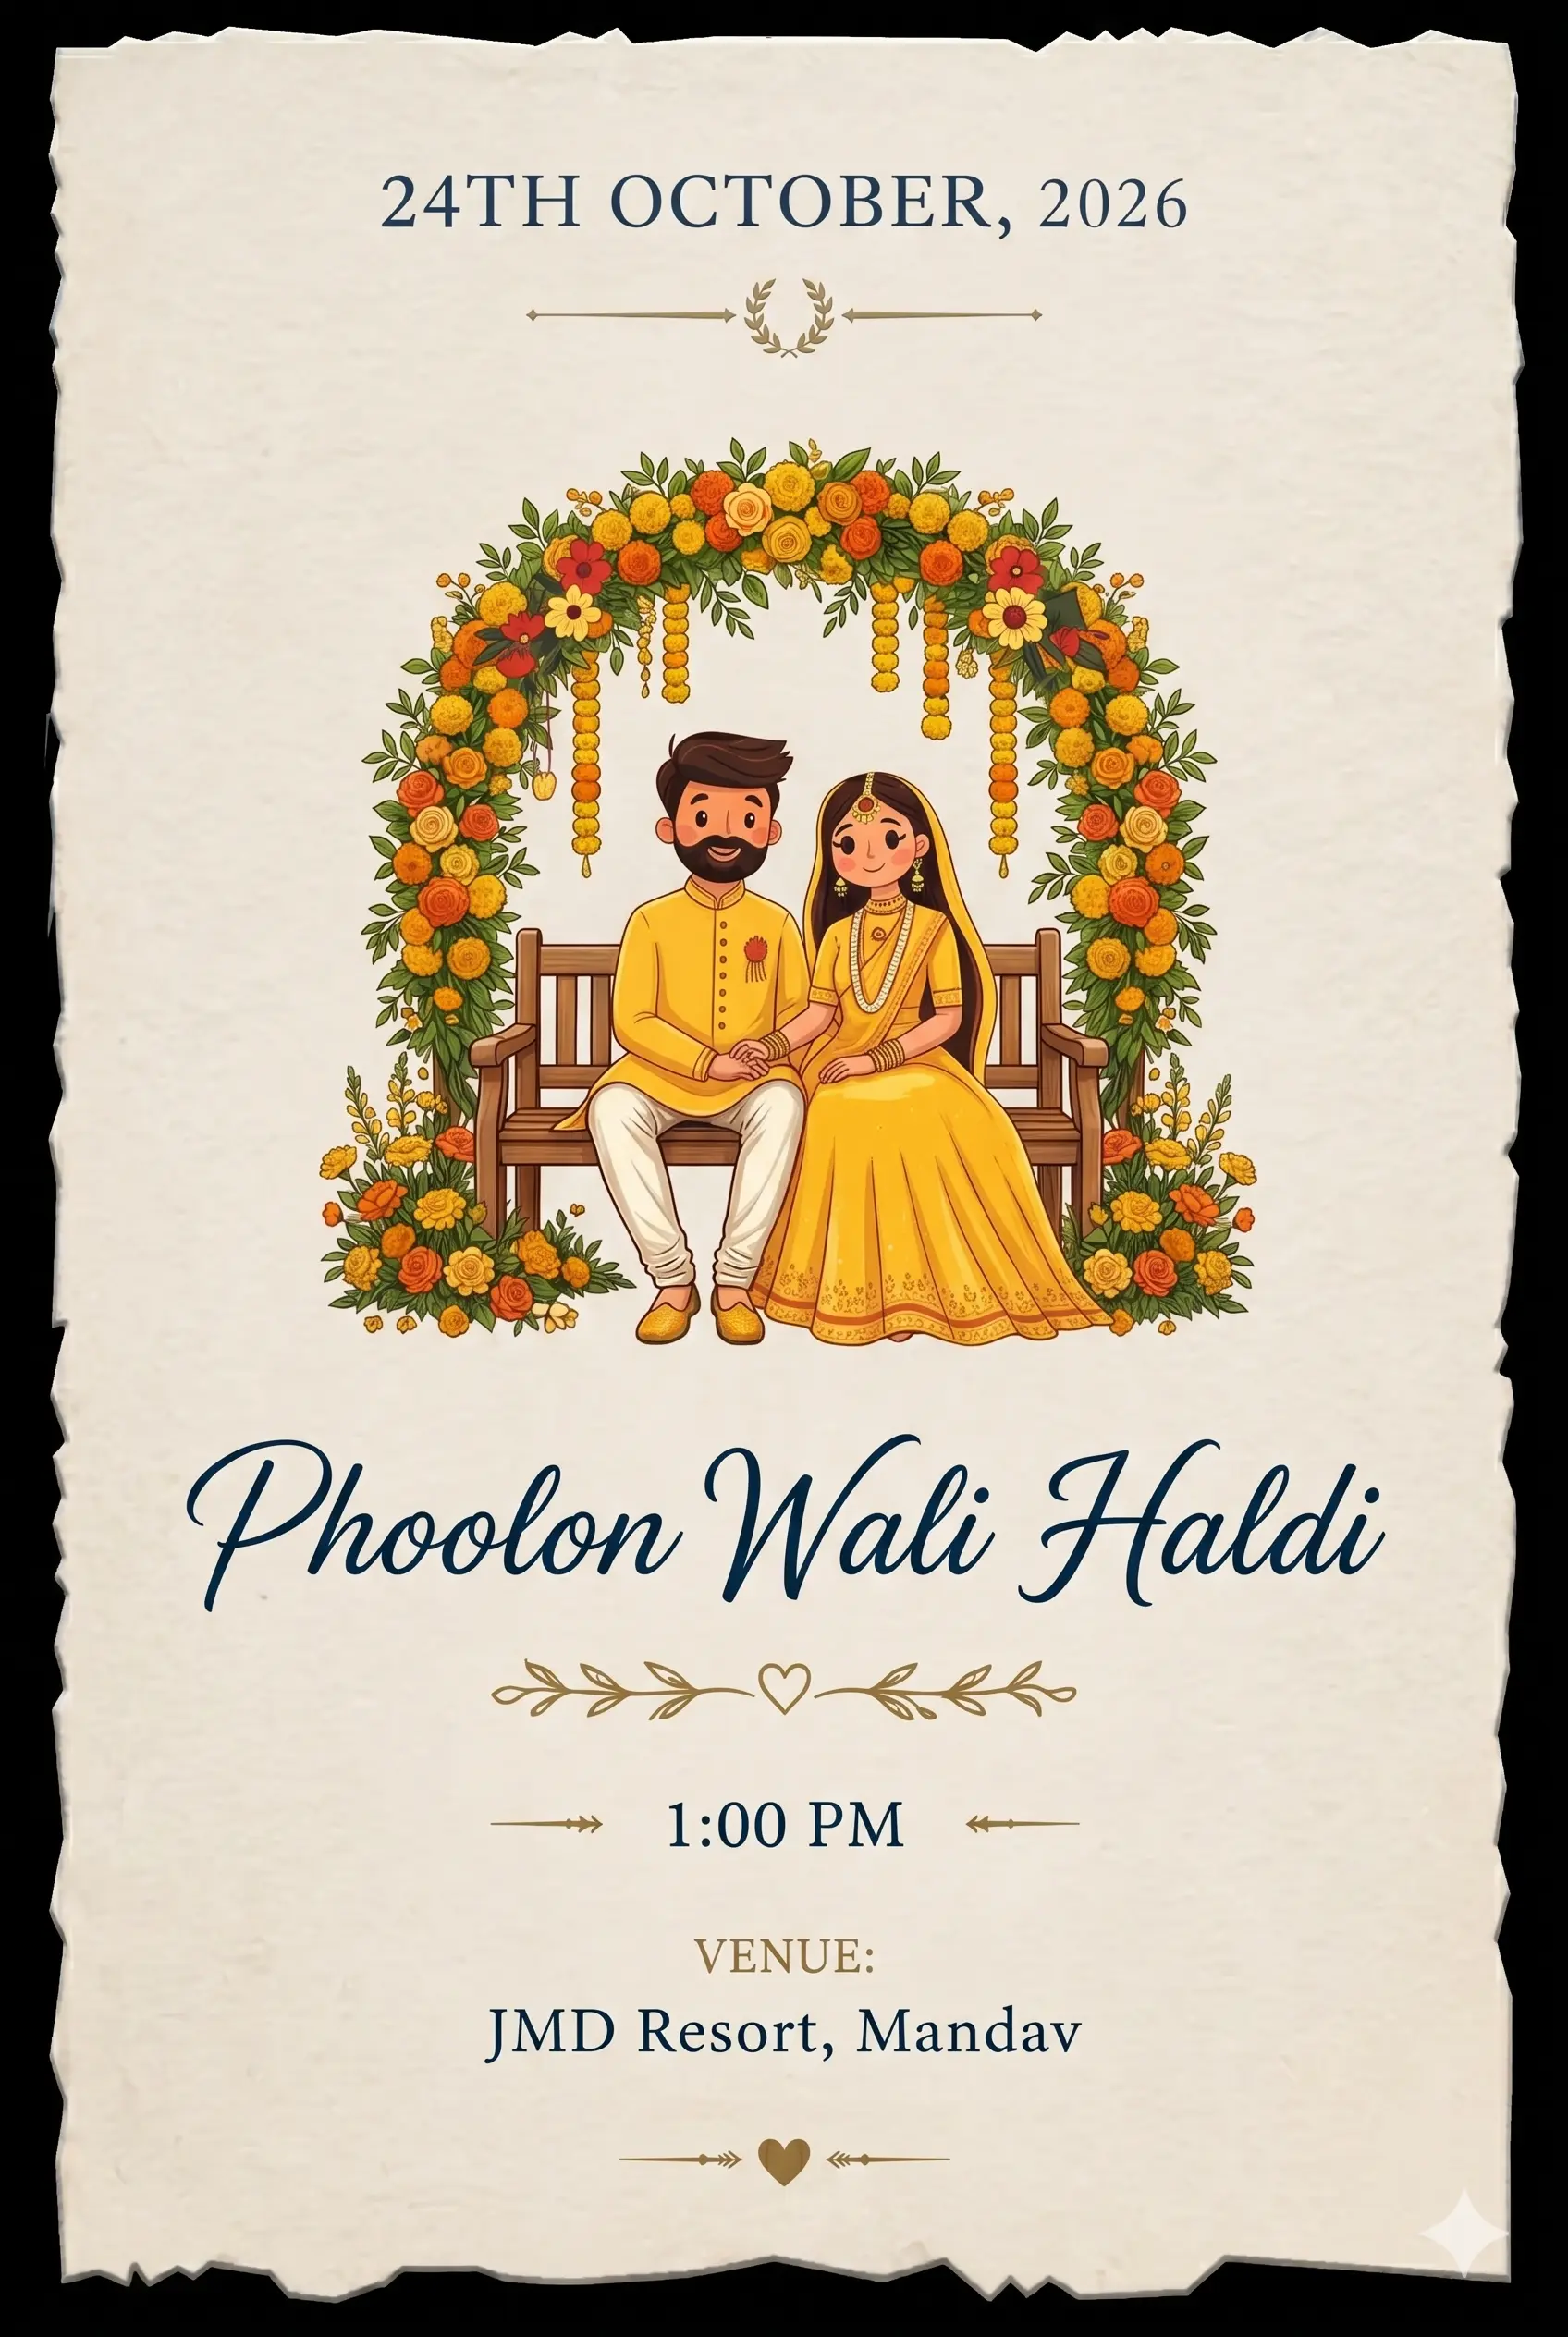
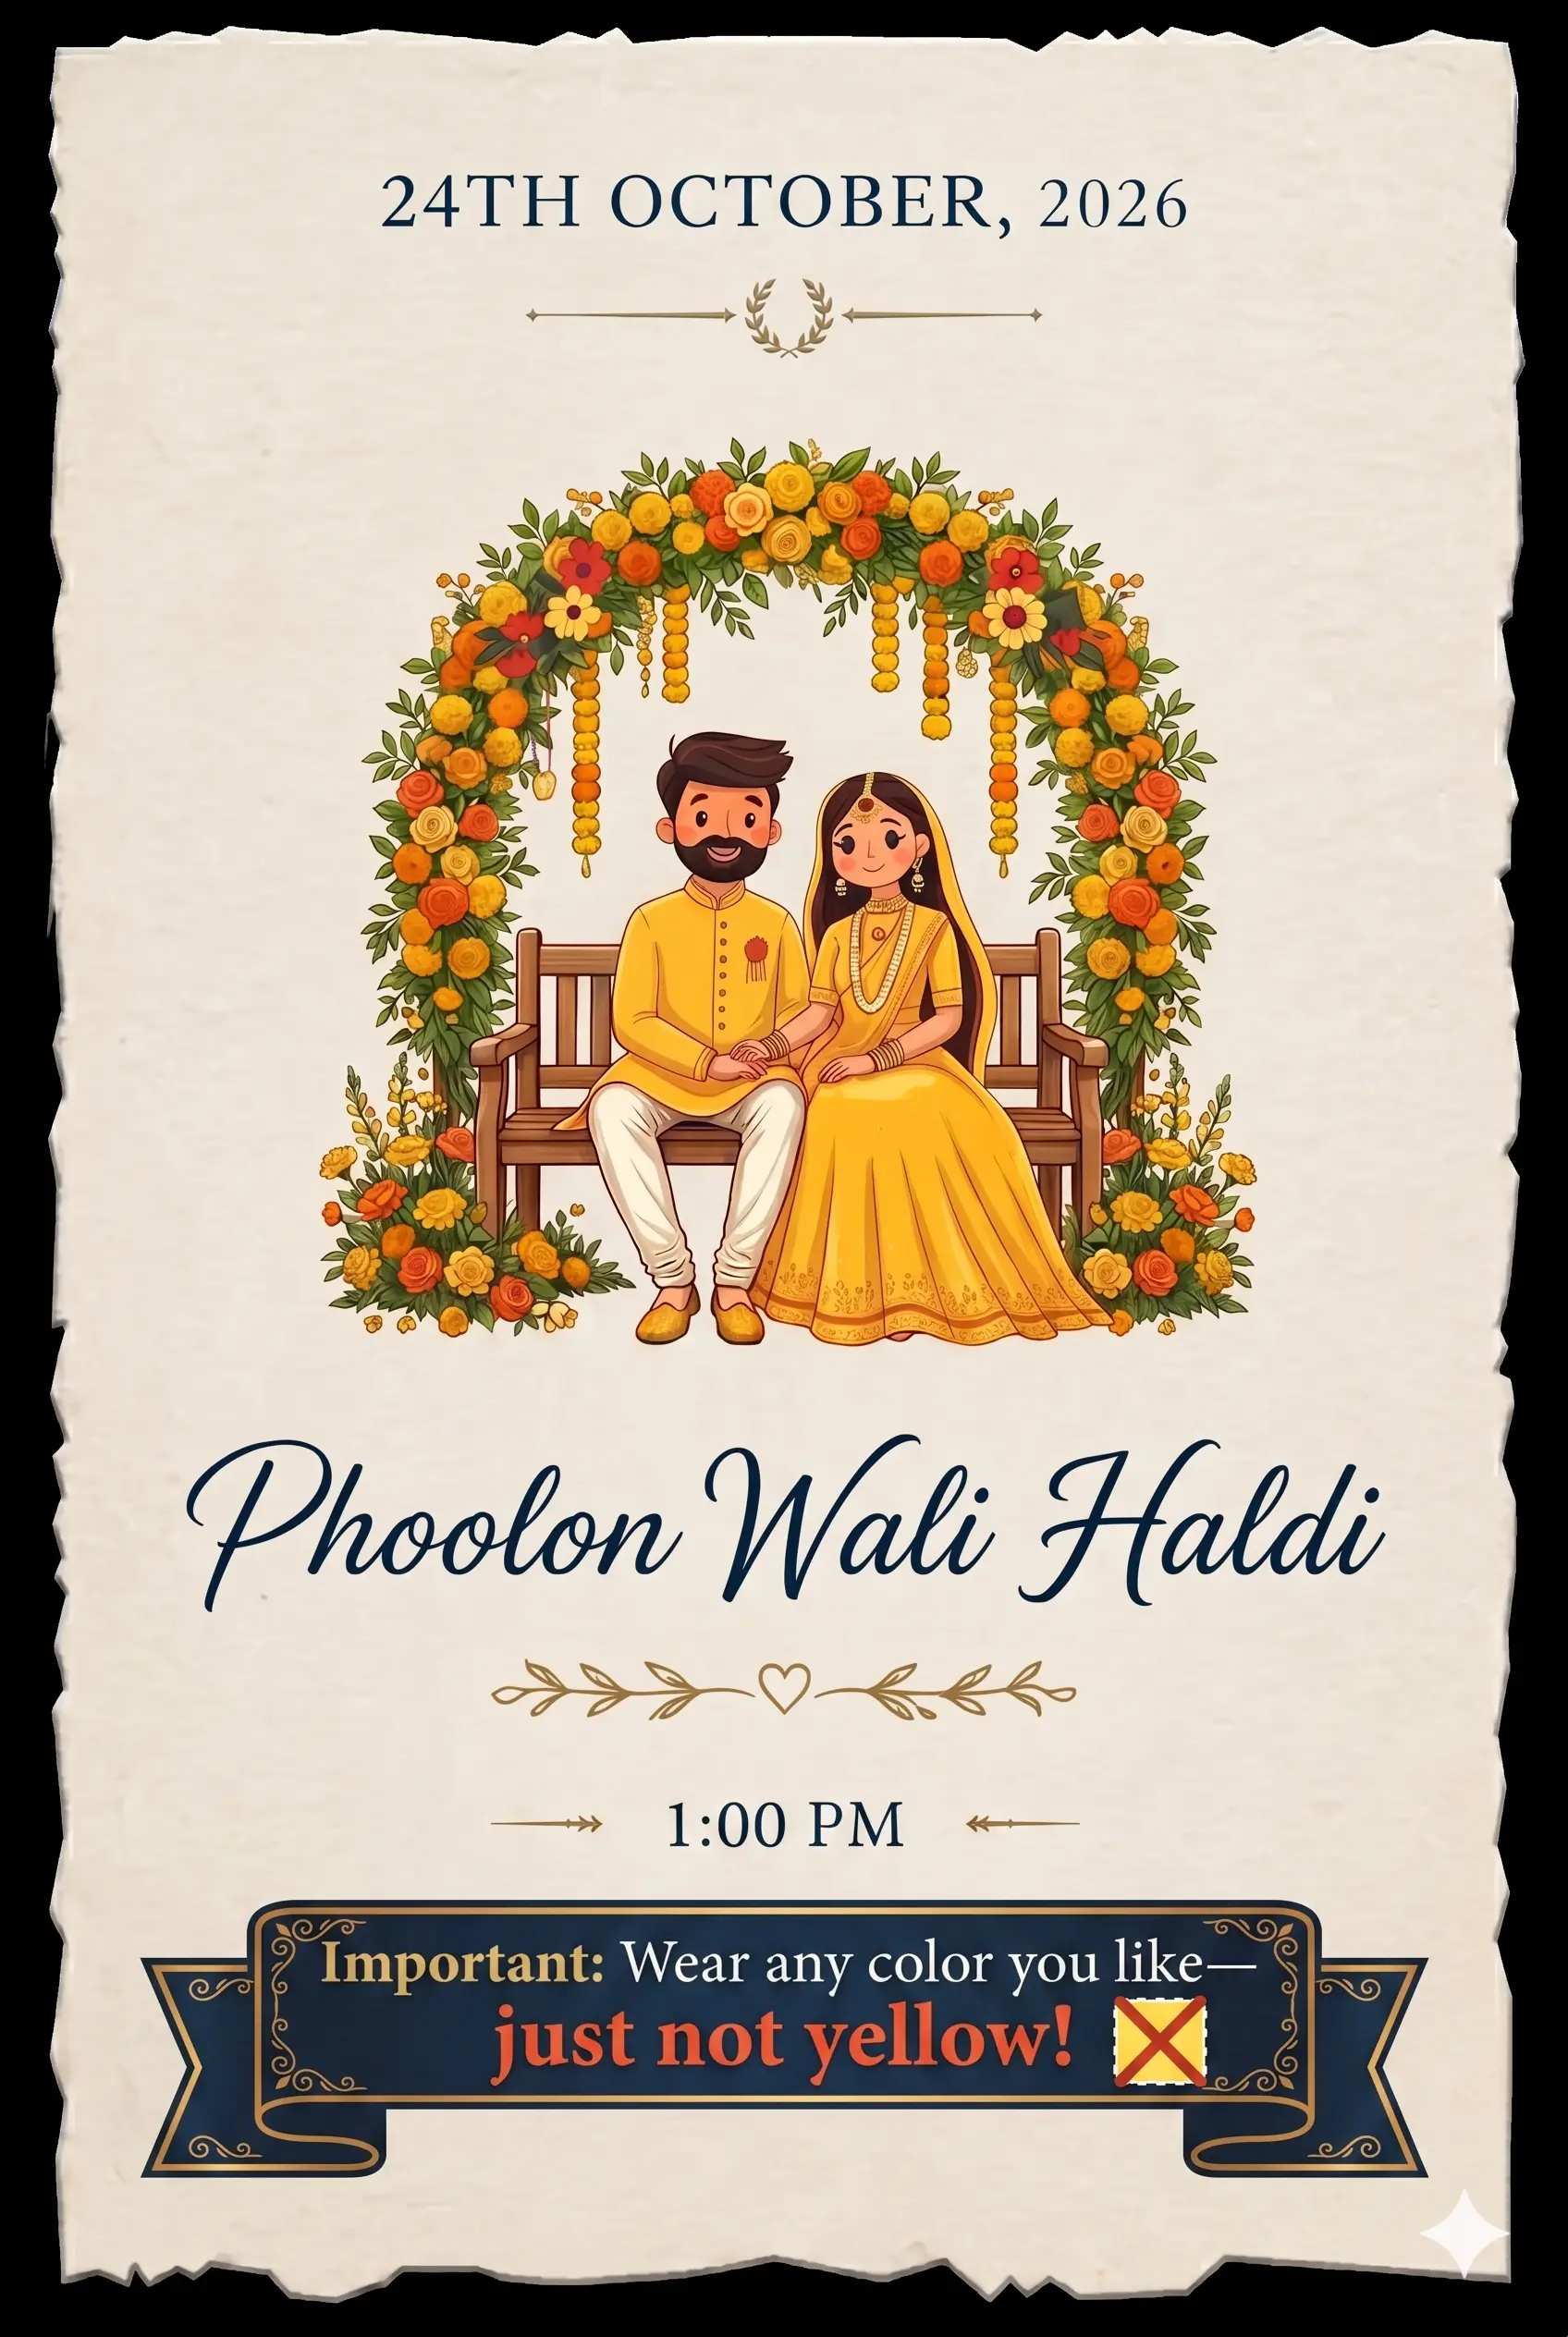
feat: changes

diff --git a/app/globals.css b/app/globals.css
@@ -333,12 +333,39 @@ a {
   gap: 1.5rem;
   justify-items: center;
 }
-.schedule__card {
+.schedule__card-wrap {
   width: 100%;
   max-width: 460px;
+  display: flex;
+  flex-direction: column;
+  align-items: center;
+  gap: 1rem;
+}
+.schedule__card {
+  width: 100%;
   border-radius: 6px;
   overflow: hidden;
   box-shadow: 0 18px 44px rgba(67, 56, 42, 0.18);
+}
+.schedule__card img {
+  width: 100%;
+  display: block;
+}
+.schedule__location {
+  display: inline-block;
+  letter-spacing: 0.2em;
+  font-size: 0.82rem;
+  font-weight: 600;
+  text-decoration: none;
+  color: var(--ink);
+  border: 1px solid var(--gold);
+  border-radius: 999px;
+  padding: 0.75rem 1.75rem;
+  transition: all 0.25s ease;
+}
+.schedule__location:hover {
+  background: var(--gold);
+  color: #fff;
 }
 
 /* ================= WEDDING ================= */

diff --git a/app/page.tsx b/app/page.tsx
@@ -31,7 +31,7 @@ export default function Home() {
             <div className="divider">{c.hero.saveTheDate}</div>
             <p className="hero__date script">{c.hero.dateLine}</p>
             <p className="eyebrow hero__loc">{c.hero.location}</p>
-            <a className="rsvp__directions" href={c.rsvp.directionsUrl} target="_blank" rel="noopener noreferrer">
+            <a className="rsvp__directions" href={c.rsvp.jmdDirectionsUrl} target="_blank" rel="noopener noreferrer">
               📍 {c.rsvp.directionsLabel}
             </a>
           </Reveal>
@@ -52,8 +52,6 @@ export default function Home() {
           <Reveal delay={250}>
             <p className="countdown__foot">❦ {c.countdown.footnote} ❦</p>
             <div className="heart" style={{ marginTop: "1.5rem" }}>♥</div>
-            <p className="countdown__thanks">{c.countdown.thankYou}</p>
-            <div className="heart">♥</div>
           </Reveal>
         </div>
       </section>
@@ -138,8 +136,15 @@ export default function Home() {
           </Reveal>
           <div className="schedule__cards">
             {c.schedule.cards.map((card, i) => (
-              <Reveal className="schedule__card" delay={i * 90} key={i}>
-                <img src={card.image} alt={card.title} loading="lazy" />
+              <Reveal className="schedule__card-wrap" delay={i * 90} key={i}>
+                <div className="schedule__card">
+                  <img src={card.image} alt={card.title} loading="lazy" />
+                </div>
+                {"locationUrl" in card && (
+                  <a className="schedule__location" href={card.locationUrl} target="_blank" rel="noopener noreferrer">
+                    📍 {c.rsvp.directionsLabel}
+                  </a>
+                )}
               </Reveal>
             ))}
           </div>
@@ -153,7 +158,9 @@ export default function Home() {
           <Reveal delay={120}>
             <p className="rsvp__footer script">{c.rsvp.footer}</p>
             <div className="heart">♥</div>
-            <a className="rsvp__directions" href={c.rsvp.directionsUrl} target="_blank" rel="noopener noreferrer">
+            <p className="countdown__thanks">{c.countdown.thankYou}</p>
+            <div className="heart">♥</div>
+            <a className="rsvp__directions" href={c.rsvp.jmdDirectionsUrl} target="_blank" rel="noopener noreferrer">
               📍 {c.rsvp.directionsLabel}
             </a>
           </Reveal>

diff --git a/site.config.ts b/site.config.ts
@@ -104,7 +104,15 @@ export const siteConfig = {
     heading: "SCHEDULE OF EVENTS",
     subheading: "A CELEBRATION OF TRADITION, LOVE & FAMILY",
     // Each card is a pre-designed image from the original deck.
-    cards: [{ image: "/assets/mehendi.webp", title: "Mehendi" },{ image: "/assets/haldi.webp", title: "Haldi" },{ image: "/assets/cocktail.webp", title: "Cocktail" },{ image: "/assets/schedule-card-1.webp", title: "Sufi Night" },{ image: "/assets/schedule-card-1.webp", title: "After Party" }],
+    cards: [
+      { image: "/assets/mehendi.webp", title: "Mehendi", locationUrl: "https://maps.app.goo.gl/otmow8TfYVacjQXx6" },
+      { image: "/assets/haldi.webp", title: "Haldi" },
+      { image: "/assets/cocktail.webp", title: "Cocktail" },
+      { image: "/assets/baraat.webp", title: "Baraat" },
+      { image: "/assets/phere.webp", title: "Phere" },
+      { image: "/assets/sufi.webp", title: "Sufi Night" },
+      { image: "/assets/schedule-card-1.webp", title: "After Party" },
+    ],
   },
 
   /* ---------- Wedding ceremony ---------- */
@@ -146,7 +154,7 @@ export const siteConfig = {
     successMessage: "Thank you! Your response has been noted with love.",
     footer: "Celebrate this new chapter with us.",
     directionsLabel: "GET DIRECTIONS",
-    directionsUrl: "https://maps.app.goo.gl/F1RsPp6k4SX69nKL9?g_st=iw",
+    jmdDirectionsUrl: "https://maps.app.goo.gl/Gb13nvmXNJKVn9kt5",
   },
 } as const;
 